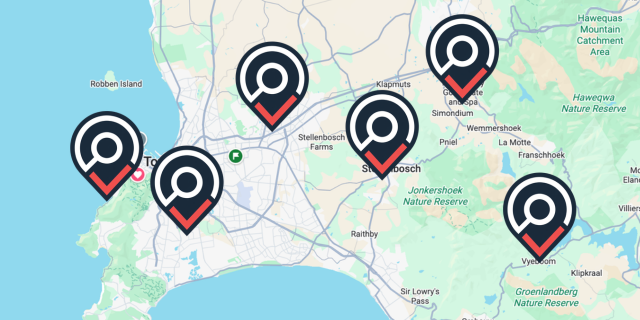
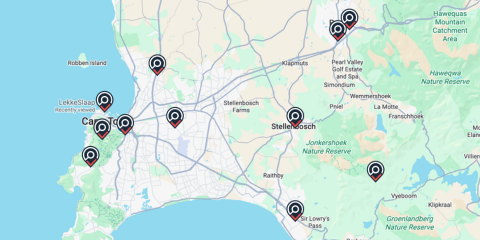
UAT small map

diff --git a/app/page.tsx b/app/page.tsx
@@ -1,6 +1,6 @@
 "use client";
 
-import { useState } from "react";
+import { useEffect, useState } from "react";
 import { useRouter } from "next/navigation";
 import {
   BadgeCheck,
@@ -39,7 +39,20 @@ export default function HomePage() {
   const router = useRouter();
 
   const [intent, setIntent] = useState<SpaceIntentKey | typeof VIEW_ALL_KEY>(VIEW_ALL_KEY);
+  const [trustStripEntered, setTrustStripEntered] = useState(false);
   const orderedIntentKeys: SpaceIntentKey[] = ["store", "park", "work", "do", "host"];
+
+  useEffect(() => {
+    const prefersReduced =
+      typeof window !== "undefined" &&
+      window.matchMedia("(prefers-reduced-motion: reduce)").matches;
+    if (prefersReduced) {
+      setTrustStripEntered(true);
+      return;
+    }
+    const id = window.setTimeout(() => setTrustStripEntered(true), 160);
+    return () => window.clearTimeout(id);
+  }, []);
 
   function goToBrowse(nextIntent: SpaceIntentKey | typeof VIEW_ALL_KEY) {
     const params = new URLSearchParams();
@@ -204,38 +217,48 @@ export default function HomePage() {
           </div>
         </div>
 
-        <div className="pointer-events-none absolute inset-x-0 bottom-[-20px] z-20 px-6 sm:bottom-[-36px]">
-          <div className="mx-auto max-w-4xl">
-            <div className="pointer-events-auto rounded-2xl border border-gray-200/90 bg-white/85 p-4 shadow-md backdrop-blur sm:p-5">
-          <div className="grid grid-cols-1 gap-3 md:grid-cols-2 md:gap-0">
-            <div className="group rounded-xl border border-transparent px-3 py-3 transition-all duration-200 ease-out hover:-translate-y-0.5 hover:border-gray-200 hover:bg-gray-50/60 hover:shadow-sm">
-              <div className="flex items-start gap-3">
-                <span className="rounded-lg border border-gray-200 bg-white p-2 text-[#192a3a]">
-                  <BadgeCheck className="h-4 w-4" />
-                </span>
-                <div>
-                  <p className="text-sm font-semibold text-[#192a3a]">Verified listings</p>
-                  <p className="mt-1 text-xs text-gray-600">
-                    Quality and trust you can rely on.
-                  </p>
+        <div className="pointer-events-none absolute inset-x-0 bottom-[-20px] z-20 -mt-10 px-6 sm:bottom-[-36px]">
+          <div className="relative mx-auto max-w-4xl">
+            <div
+              className="pointer-events-none absolute inset-x-0 -top-8 bottom-0 -z-10 rounded-2xl bg-gradient-to-t from-white/70 to-transparent"
+              aria-hidden
+            />
+            <div
+              className={`pointer-events-none cursor-default rounded-2xl border border-white/30 bg-white/55 p-4 shadow-[0_8px_30px_rgba(0,0,0,0.08),inset_0_1px_0_rgba(255,255,255,0.6)] backdrop-blur-md transition-[opacity,transform,filter,box-shadow] duration-[520ms] ease-out sm:p-5 ${
+                trustStripEntered
+                  ? "translate-y-0 opacity-100 blur-0 shadow-[0_8px_30px_rgba(0,0,0,0.08),inset_0_1px_0_rgba(255,255,255,0.6)]"
+                  : "translate-y-3 opacity-0 blur-[1.5px] shadow-[0_4px_18px_rgba(0,0,0,0.05),inset_0_1px_0_rgba(255,255,255,0.45)]"
+              }`}
+            >
+              <div className="grid grid-cols-1 gap-3 md:grid-cols-2 md:gap-6">
+                <div className="cursor-default rounded-xl border border-transparent px-3 py-3">
+                  <div className="flex items-start gap-3">
+                    <span className="rounded-lg border border-white/40 bg-white/40 p-2 text-red-500">
+                      <BadgeCheck className="h-4 w-4" />
+                    </span>
+                    <div>
+                      <p className="text-sm font-semibold text-[#192a3a]">Verified listings</p>
+                      <p className="mt-1 text-xs text-gray-600">
+                        Quality and trust you can rely on.
+                      </p>
+                    </div>
+                  </div>
                 </div>
-              </div>
-            </div>
 
-            <div className="group rounded-xl border border-transparent px-3 py-3 transition-all duration-200 ease-out hover:-translate-y-0.5 hover:border-gray-200 hover:bg-gray-50/60 hover:shadow-sm md:border-l md:border-gray-200/70 md:pl-5">
-              <div className="flex items-start gap-3">
-                <span className="rounded-lg border border-gray-200 bg-white p-2 text-[#192a3a]">
-                  <ShieldCheck className="h-4 w-4" />
-                </span>
-                <div>
-                  <p className="text-sm font-semibold text-[#192a3a]">Secure payments</p>
-                  <p className="mt-1 text-xs text-gray-600">
-                    Safe, simple and protected.
-                  </p>
+                <div className="cursor-default rounded-xl border border-transparent px-3 py-3 md:border-l md:border-white/40 md:pl-6">
+                  <div className="flex items-start gap-3">
+                    <span className="rounded-lg border border-white/40 bg-white/40 p-2 text-red-500">
+                      <ShieldCheck className="h-4 w-4" />
+                    </span>
+                    <div>
+                      <p className="text-sm font-semibold text-[#192a3a]">Secure payments</p>
+                      <p className="mt-1 text-xs text-gray-600">
+                        Safe, simple and protected.
+                      </p>
+                    </div>
+                  </div>
                 </div>
               </div>
-            </div>
-          </div>
             </div>
           </div>
         </div>

diff --git a/app/components/SpaceCard.tsx b/app/components/SpaceCard.tsx
@@ -76,7 +76,8 @@ export default function SpaceCard({ space, availabilityHint }: Props) {
   return (
     <Link
       href={`/spaces/${space.id}`}
-      className="block overflow-hidden rounded-md border border-gray-200 bg-white shadow-sm transition hover:-translate-y-0.5 hover:shadow-md"
+      aria-label={`View listing: ${space.title}`}
+      className="group block cursor-pointer overflow-hidden rounded-md border border-gray-200 bg-white shadow-sm transition-all duration-200 ease-out hover:-translate-y-0.5 hover:border-gray-300 hover:shadow-md focus-visible:outline-none focus-visible:ring-2 focus-visible:ring-[#192a3a]/35 focus-visible:ring-offset-2"
     >
       <div className="grid md:grid-cols-[380px_1fr]">
         <div className="relative min-h-[260px] bg-gray-100">
@@ -156,9 +157,9 @@ export default function SpaceCard({ space, availabilityHint }: Props) {
               View details and request booking
             </span>
 
-            <span className="inline-flex items-center gap-2 rounded-md border border-gray-300 px-4 py-2 text-sm font-medium text-[#192a3a]">
+            <span className="relative z-10 inline-flex items-center justify-center rounded-lg border border-transparent bg-[#192a3a] px-4 py-2 text-sm font-semibold text-white shadow-sm transition-all duration-200 ease-out hover:-translate-y-[1px] hover:bg-[#0a1726] hover:shadow-md">
               Open listing
-              <ArrowRight className="h-4 w-4" />
+              <ArrowRight className="ml-2 h-4 w-4 shrink-0 text-white" aria-hidden />
             </span>
           </div>
         </div>
